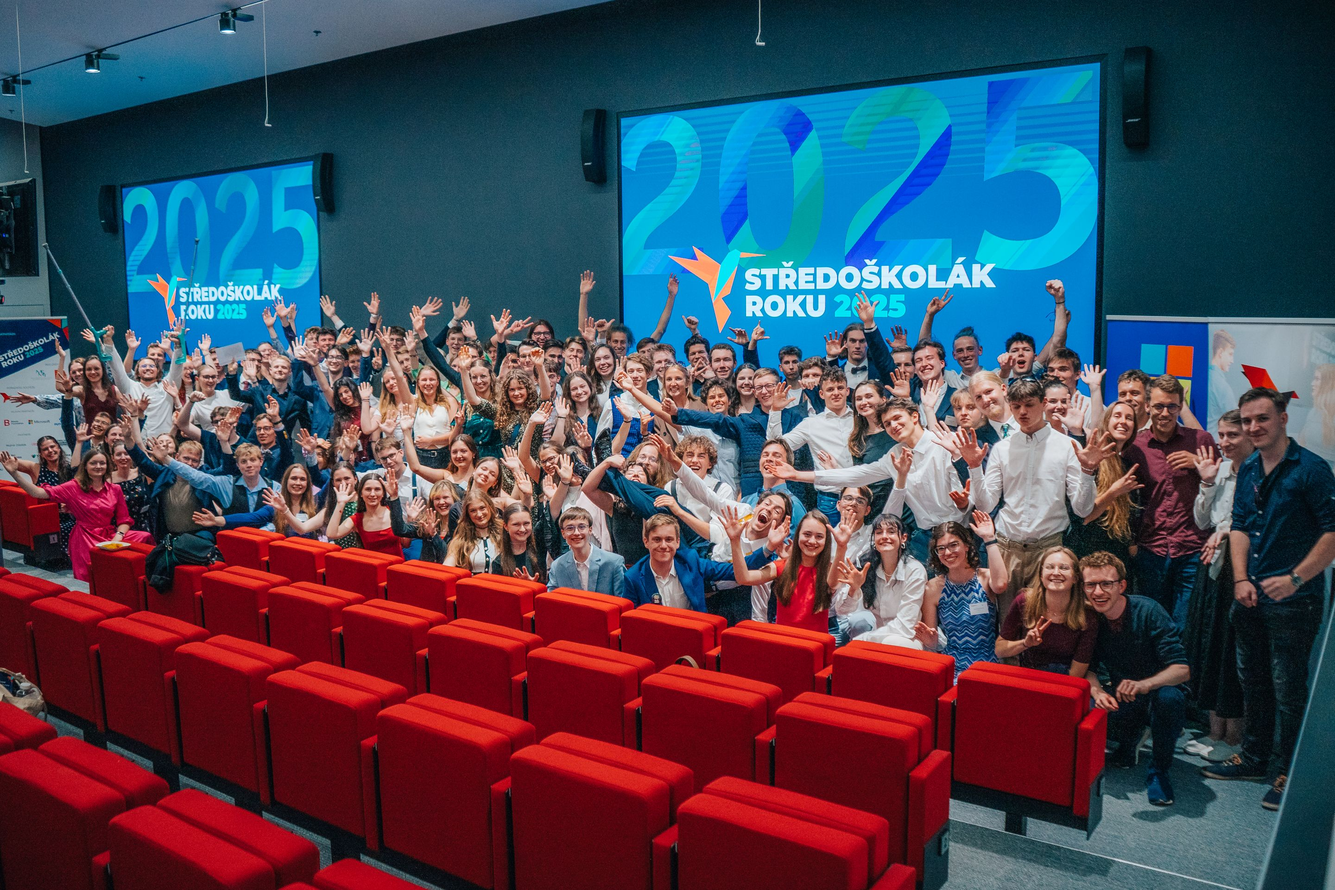
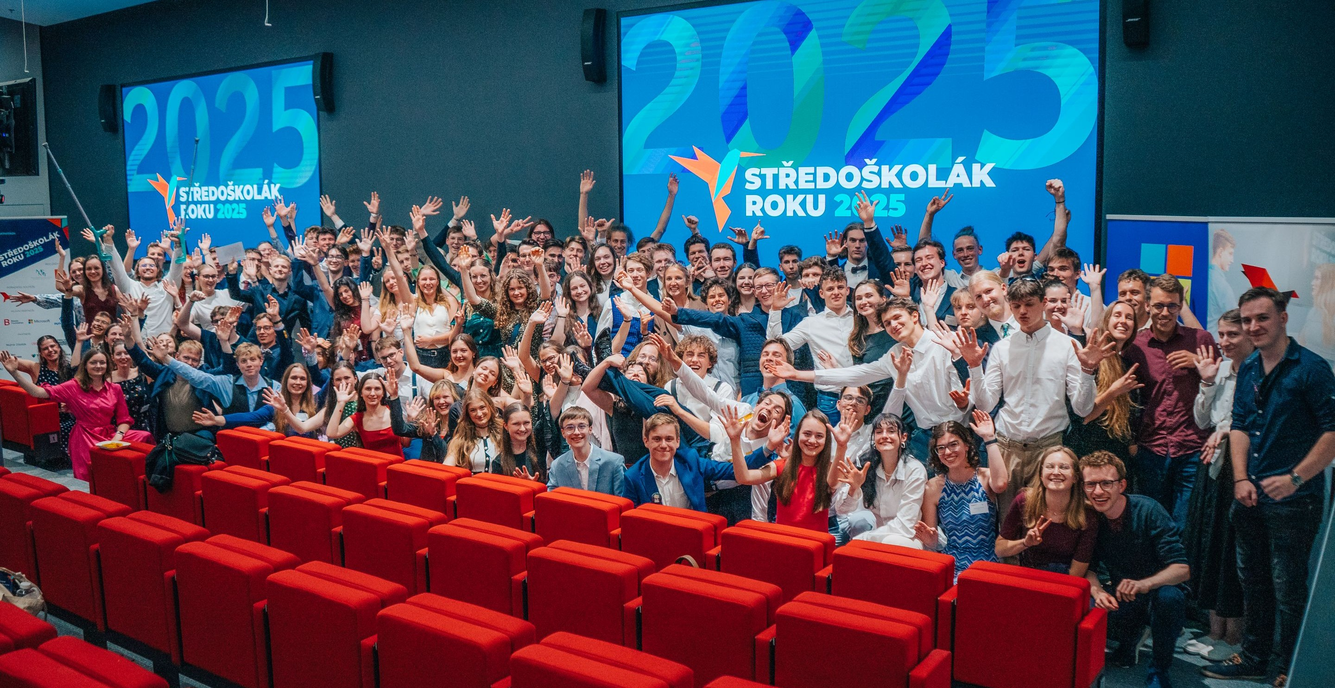
redesign

diff --git a/src/components/public/amigoContent.js b/src/components/public/amigoContent.js
@@ -1,6 +1,18 @@
 // Mentor text, hashtags and photo identities preserved from components/amigo/InfoBlock.vue.
 export const mentors = [
   {
+    id: 'anna-cerna',
+    name: 'Anna Černá',
+    hashtags: '#molekulárníbiologie #věda #SOČ #studiumvzahraničí',
+    image: require('@/assets/amigo/anna-cerna.jpg'),
+    width: 480,
+    height: 480,
+    paragraphs: [
+      'Ahoj! Jsem Anička a studuji Přírodní vědy na Maastricht University v Nizozemsku. Od konce prváku na gymplu jsem dělala výzkum v oblasti molekulární biologie na Masarykově univerzitě a mám zkušenosti z vědeckých soutěží v Česku i v zahraničí.',
+      'Jako mentorka pomohu s výběrem a oslovením laboratoře, přípravou SOČ, posteru a obhajoby, i s přihláškami na české i zahraniční VŠ a se stipendii nebo prostě s čímkoliv, co zrovna bude potřeba;).'
+    ]
+  },
+  {
     id: 'anna-prusova',
     name: 'Anna Průšová',
     hashtags: '#fyzika #lékařskáfyzika #studiumvzahraničí #stáže',
@@ -181,6 +193,18 @@ export const mentors = [
       'Od 17 let s povolením soudu rozvíjím svůj podnikatelský projekt Doučebnice, kde aktuálně přes 20 lektorů pomáhá dětem a studentům zlepšit si vztah k učení. Mimo oblast vzdělávání podnikám i v IT konzultacích, školení a salesu.',
       'Nyní studuju Kybernetiku a robotiku na ČVUT FEL. Miluju sport, hudbu, jazyky a cestování. Snažím se využívat čas naplno a řídím se mottem: "Don\'t be afraid to ask, the worst they say is no."',
       'Ať už chceš začít podnikat (i třeba před osmnáctinami), hledat soutěže, lépe si pamatovat věci a pracovat s časem nebo zlepšit veřejné vystupování, rád nasdílím své zkušenosti. Realizace je pak už ale na tobě!'
+    ]
+  },
+  {
+    id: 'simon-spilar',
+    name: 'Šimon Špilar',
+    hashtags: '#investice #ekonomie #politika #němčina',
+    image: require('@/assets/amigo/simon-spilar.jpg'),
+    width: 480,
+    height: 480,
+    paragraphs: [
+      'Šimon Špilar je studentem Financial Economics na University of St Andrews, který působí v oblasti ekonomie a investic. Má za sebou vítězství v Celostátní přehlídce SOČ, účast na Regeneron ISEF a pracovní angažmá ve financích.',
+      'Během střední školy se kromě ekonomických soutěží věnoval také participaci v European Youth Parliament a Česko-německém fóru mládeže, kde působil jako mluvčí. Rád Ti tedy poradí s dotazy v oblastech ekonomie, financí, politických akcí, němčiny, ale i time managementu a přihlášek na zahraniční univerzity.'
     ]
   },
   {

diff --git a/src/components/home/homeContent.js b/src/components/home/homeContent.js
@@ -18,7 +18,7 @@ export const activities = [
     id: 'amigo',
     title: 'AMIGO',
     description: 'Mentoring, který tě posune dál. Vyber si mentora z řad úspěšných lidí několik let po střední škole a rozvíjej s ním to, co tě baví.',
-    image: require('@/assets/amigo-step.jpg'),
+    image: require('@/assets/Víkend26_PS_Neděle_AntoninSvoboda-67.jpg'),
     imageAlt: 'Mladí lidé při společném setkání venku',
     imageWidth: 500,
     imageHeight: 356,
@@ -31,7 +31,7 @@ export const activities = [
     id: 'free-spirit',
     title: 'Free Spirit',
     description: 'Konference s příběhy bývalých finalistů a zkušenostmi hostů. Inspiruj se a poznej další aktivní středoškoláky z celé republiky.',
-    image: require('@/assets/history/freespirit2.jpg'),
+    image: require('@/assets/KFS2026_AntoninSvoboda-317.jpg'),
     imageAlt: 'Hosté diskutují na konferenci Free Spirit',
     imageWidth: 1800,
     imageHeight: 1200,
@@ -44,7 +44,7 @@ export const activities = [
     id: 'vikend-top25',
     title: 'Víkend TOP25',
     description: 'Seznamovací víkend pro 25 finalistů Středoškoláka roku. Společné aktivity a výpravy do přírody dávají prostor přátelství i spolupráci.',
-    image: require('@/assets/vikend.png'),
+    image: require('@/assets/Víkend26_PS_Neděle_AntoninSvoboda-16.jpg'),
     imageAlt: 'Finalisté s koly před chatou na víkendovém setkání',
     imageWidth: 340,
     imageHeight: 340,
@@ -57,7 +57,7 @@ export const activities = [
     id: 'akademie-top100',
     title: 'Akademie TOP100',
     description: 'Vzdělávací program pro 100 finalistů soutěže. Workshopy, přednášky a debaty pomáhají rozvíjet dovednosti využitelné ve škole i mimo ni.',
-    image: require('@/assets/history/akademie2019.jpg'),
+    image: require('@/assets/Akademie2026_Pátek_SŠR_AntoninSvoboda-042.jpg'),
     imageAlt: 'Lektor a studenti na vzdělávací akademii',
     imageWidth: 1400,
     imageHeight: 933,
@@ -70,7 +70,7 @@ export const activities = [
     id: 'galavecer',
     title: 'Slavnostní galavečer',
     description: 'Závěrečný večer Středoškoláka roku s vyhlášením finalistů a předáním cen. Nechybí hosté ani debata na aktuální témata.',
-    image: require('@/assets/vyhlaseni.png'),
+    image: require('@/assets/Galavečer2026_StredoskolakRoku_AntoninSvoboda-131.jpg'),
     imageAlt: 'Ocenění finalisté na slavnostním vyhlášení soutěže',
     imageWidth: 340,
     imageHeight: 340,

diff --git a/src/components/home/home.scss b/src/components/home/home.scss
@@ -47,7 +47,7 @@
   }
   // Ink text passes WCAG AA on Orange (5.12:1) and Teal (6.90:1).
   .home-button-orange {
-    background: var(--home-orange); color: var(--home-ink);
+    background: var(--home-orange); color: var(--home-paper);
   }
 .home-button-teal {
     background: var(--home-teal); color: var(--home-ink);
@@ -90,7 +90,7 @@
   }
 
   .home-hero { padding: 72px 0 96px; }
-  .home-hero-grid { display: grid; grid-template-columns: 1fr 1fr; gap: 64px; align-items: center; }
+  .home-hero-grid { display: grid; grid-template-columns: 0.8fr 1fr; gap: 64px; align-items: center; }
   .home-hero-copy { min-width: 0; .home-eyebrow { display: flex; align-items: center; gap: 10px; margin-bottom: 24px; } }
   .home-hero h1 { font-size: clamp(32px, 4.3vw, 62px); line-height: 1.05; letter-spacing: -.055em; }
   .home-hero-lead { margin-top: 24px; font-size: 28px; line-height: 1.25; letter-spacing: -.025em; }
@@ -98,7 +98,7 @@
   .home-hero-actions { display: flex; align-items: center; flex-wrap: wrap; gap: 24px; margin-top: 32px; }
   .home-hero-photo {
     min-width: 0;
-    img { width: 100%; height: auto; aspect-ratio: 4 / 3; object-fit: cover; object-position: 52% 50%; border-radius: var(--home-radius); }
+    img { width: 100%; height: auto; aspect-ratio: 16 / 9; object-fit: cover; object-position: 52% 50%; border-radius: var(--home-radius); }
     figcaption { display: flex; align-items: center; gap: 8px; margin-top: 14px; font-size: 12px; color: var(--home-muted); }
   }
 

diff --git a/src/views/AboutUsPage.vue b/src/views/AboutUsPage.vue
@@ -69,7 +69,7 @@ export default {
     return {
       team,
       history,
-      heroPhoto: { src: require('@/assets/about-us.png'), alt: 'Společná fotografie účastníků a organizátorů Středoškoláka roku', width: 2000, height: 692, position: '80% center' }
+      heroPhoto: { src: require('@/assets/Akademie2026_Pátek_SŠR_AntoninSvoboda-084.jpg'), alt: 'Společná fotografie účastníků a organizátorů Středoškoláka roku', width: 2000, height: 692, position: '80% center' }
     }
   }
 }

diff --git a/src/views/Home.vue b/src/views/Home.vue
@@ -78,7 +78,7 @@
           </ul>
           <div class="home-patronage">
             <p>Pod záštitou</p>
-            <img src="~@/assets/partners/msmt.jpg" alt="Ministerstvo školství, mládeže a tělovýchovy" width="827" height="413" loading="lazy" decoding="async">
+            <img src="~@/assets/partners/msmt.svg" alt="Ministerstvo školství, mládeže a tělovýchovy" width="827" height="413" loading="lazy" decoding="async">
           </div>
         </div>
       </section>
